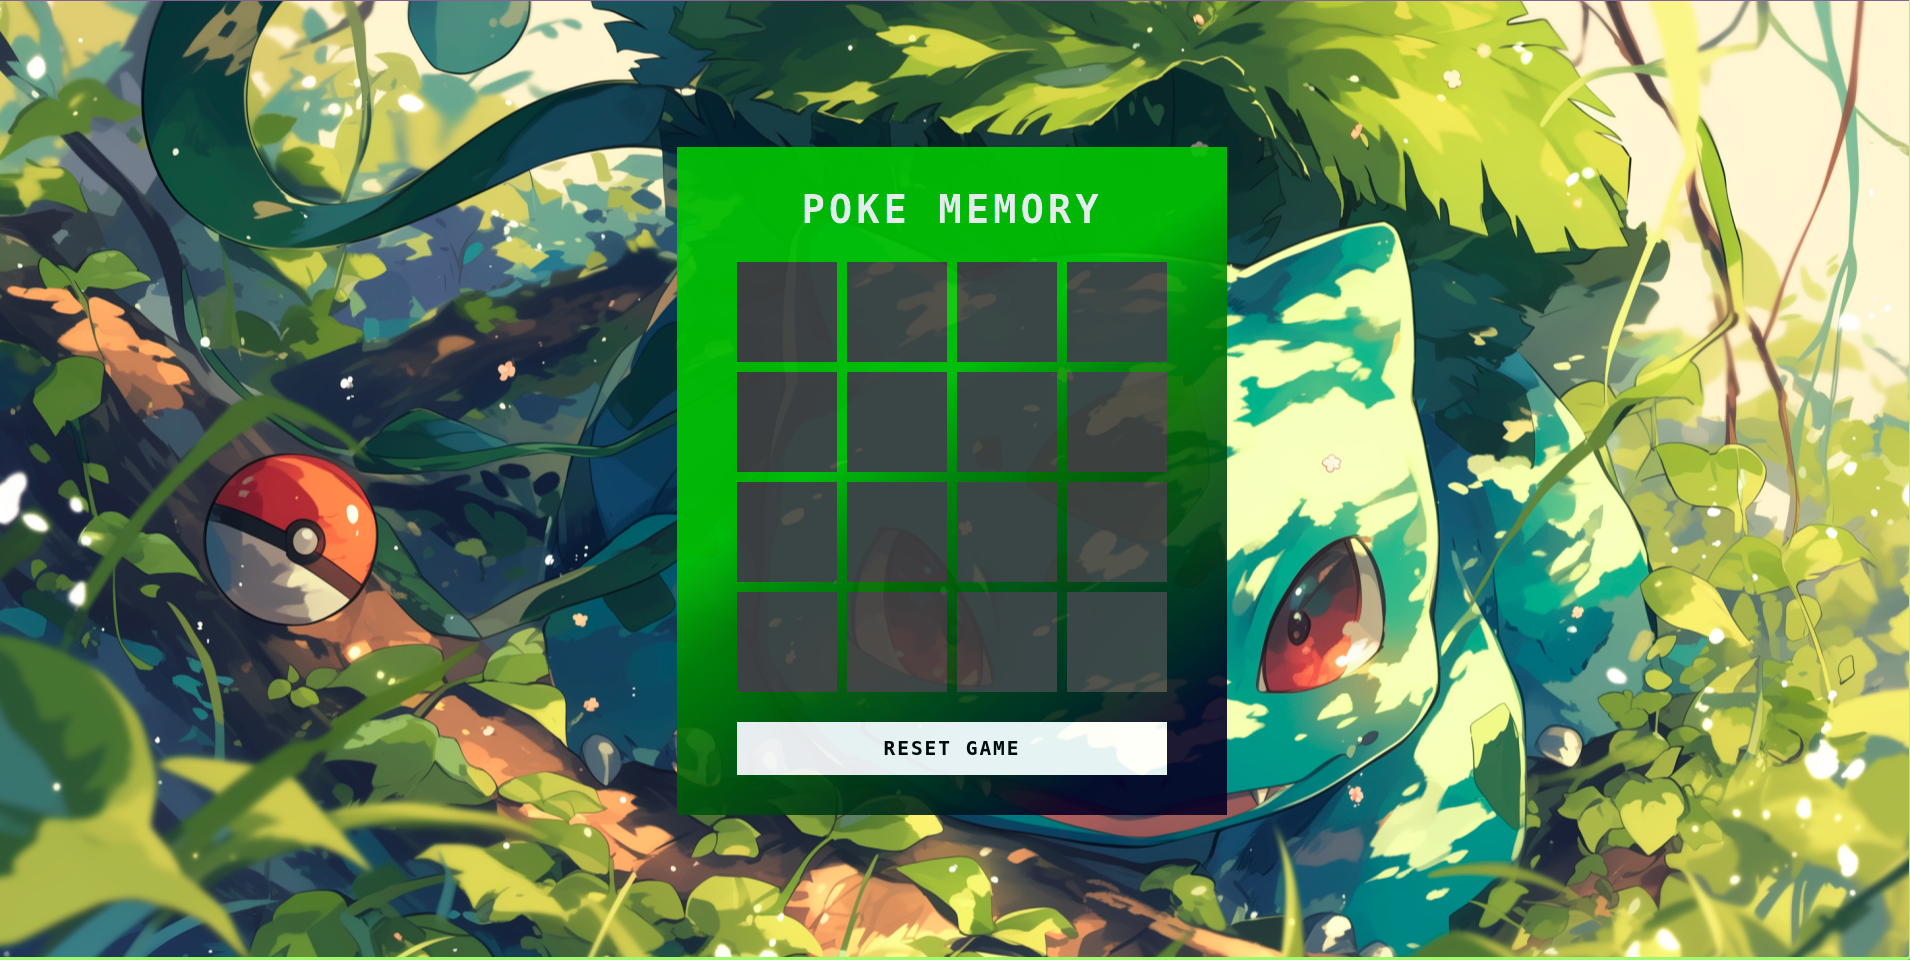
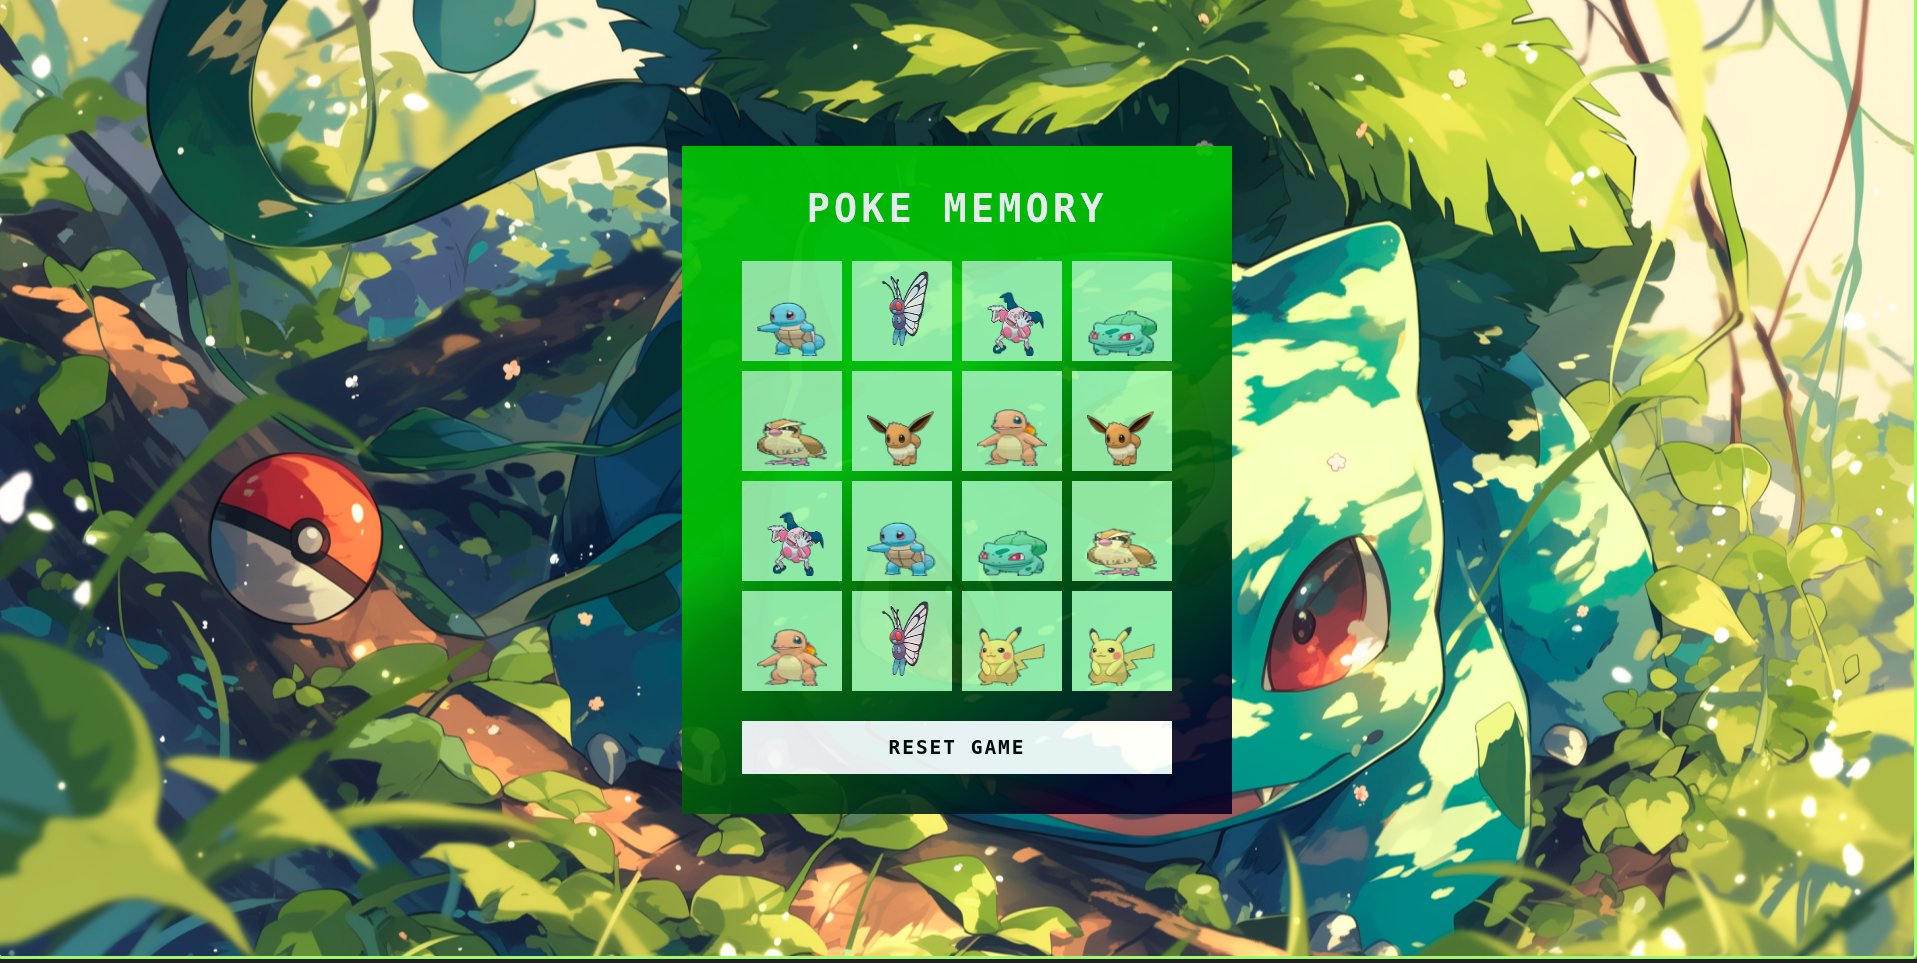
docs(readme): Update readme

diff --git a/README.md b/README.md
@@ -30,6 +30,12 @@ Criação de um jogo da memória utilizando `HTML`, `CSS` e `JAVASCRIPT`
   <img alt="GAME" src="./src/data/memory-game.png">
 </p>
 
+## 🔴 Pokémons
+
+| Bulbasaur                                    | Charmander                                   | Squirtle                                     | Butterfly                                   | Pidgeotto                                    | Pikachu                                   | Mr. Mime                                     | Eevee                                   |
+| -------------------------------------------- | -------------------------------------------- | -------------------------------------------- | -------------------------------------------- | -------------------------------------------- | -------------------------------------------- | -------------------------------------------- | -------------------------------------------- | 
+| <img alt="GAME" src="./src/data/poke_1.gif"> | <img alt="GAME" src="./src/data/poke_2.gif"> | <img alt="GAME" src="./src/data/poke_3.gif"> | <img alt="GAME" src="./src/data/poke_4.gif"> | <img alt="GAME" src="./src/data/poke_5.gif"> | <img alt="GAME" src="./src/data/poke_6.gif"> | <img alt="GAME" src="./src/data/poke_7.gif"> | <img alt="GAME" src="./src/data/poke_8.gif"> | 
+
 ## 🐾 Melhorias 
 
 - Melhorar a mensagem de aviso `você venceu`
